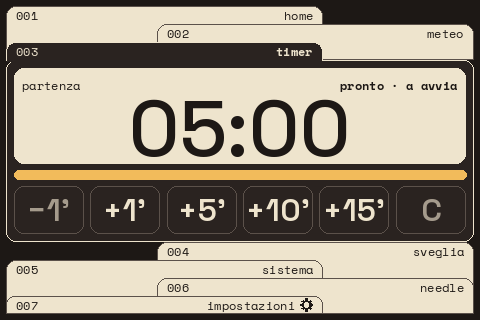
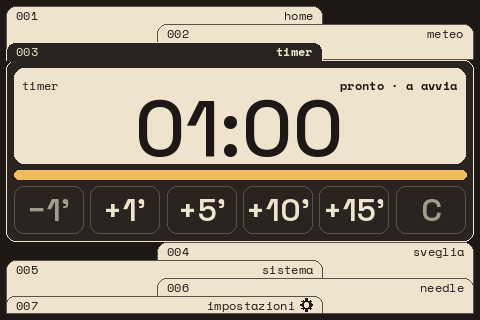
Rimuovi riferimenti a regate e nautica, sposta i dati demo in dash/demo.py
Claude-Session: https://claude.ai/code/session_01RAeUVfJHs33U2wMNxvkLa8

Changed region(s): [[0.25, 0.3125, 0.75, 0.5], [0.0312, 0.25, 0.1875, 0.2812]]

diff --git a/dash/widgets/weather.py b/dash/widgets/weather.py
@@ -12,7 +12,7 @@ import threading
 import urllib.error
 import urllib.parse
 import urllib.request
-from datetime import datetime, timedelta, timezone
+from datetime import datetime, timezone
 from pathlib import Path
 from collections.abc import Hashable
 from typing import Any
@@ -44,41 +44,6 @@ ROSA_16 = ("N", "NNE", "NE", "ENE", "E", "ESE", "SE", "SSE",
            "S", "SSW", "SW", "WSW", "W", "WNW", "NW", "NNW")
 VENTI_8 = ("TRAMONTANA", "GRECALE", "LEVANTE", "SCIROCCO",
            "OSTRO", "LIBECCIO", "PONENTE", "MAESTRALE")
-
-def _demo_data() -> dict[str, Any]:
-    """Dati finti coerenti per lavorare offline."""
-    start = datetime(2026, 9, 23)
-    times, temps, codes, rain, soil0, soil6 = [], [], [], [], [], []
-    wind: list[float] = []
-    gust: list[float] = []
-    for h in range(48):
-        t = start + timedelta(hours=h)
-        times.append(t.strftime("%Y-%m-%dT%H:00"))
-        temps.append(round(21 + 4 * math.sin((t.hour - 9) / 24 * 2 * math.pi), 1))
-        codes.append((0, 1, 2, 2, 3, 61, 2, 0)[(h // 3) % 8])
-        rain.append((5, 10, 16, 30, 55, 40, 20, 8)[(h // 3) % 8])
-        soil0.append(round(temps[-1] - 1, 1))
-        soil6.append(round(temps[-1] - 6, 1))
-        wind.append(round(9 + 6 * math.sin((t.hour - 6) / 24 * 2 * math.pi) + (h % 3), 1))
-        gust.append(round(wind[-1] * 1.4, 1))
-    return {
-        "current": {"time": "2026-09-23T14:30", "temperature_2m": 24.7,
-                    "apparent_temperature": 26.1, "relative_humidity_2m": 73,
-                    "weather_code": 2, "is_day": 1, "cloud_cover": 22,
-                    "pressure_msl": 1013.4, "wind_speed_10m": 14.2,
-                    "wind_direction_10m": 315, "wind_gusts_10m": 21.0},
-        "hourly": {"time": times, "temperature_2m": temps, "weather_code": codes,
-                   "precipitation_probability": rain,
-                   "soil_temperature_0cm": soil0, "soil_temperature_6cm": soil6,
-                   "wind_speed_10m": wind, "wind_gusts_10m": gust,
-                   "wind_direction_10m": [300] * 48},
-        "daily": {"temperature_2m_max": [25.1], "temperature_2m_min": [19.2],
-                  "sunrise": ["2026-09-23T06:52"], "sunset": ["2026-09-23T18:59"],
-                  "daylight_duration": [43620.0], "sunshine_duration": [36900.0]},
-    }
-
-
-DEMO_DATA: dict[str, Any] = _demo_data()
 
 
 def beaufort(kn: float) -> int:
@@ -152,7 +117,10 @@ class WeatherWidget(Widget):
         self.demo = bool(cfg.get("demo", False))
         self.cache_file = Path(cfg.get("cache_dir", "out")) / "weather_cache.json"
         self._lock = threading.Lock()
-        self._data: dict[str, Any] | None = DEMO_DATA if self.demo else self._load_cache()
+        self._data: dict[str, Any] | None = self._load_cache()
+        if self.demo:
+            from ..demo import weather_data  # solo con `weather.demo` o --demo
+            self._data = weather_data()
         self._version = 0  # cambia a ogni nuovo scaricamento: usato da state_key
         self.error: str | None = None
         self._stop = threading.Event()

diff --git a/dash/demo.py b/dash/demo.py
@@ -1,0 +1,55 @@
+"""Dati dimostrativi per anteprime, simulatore (`--demo`) e test.
+
+Non fa parte dell'esecuzione normale sul Pi: i widget lo importano solo quando serve
+(`weather.demo`, `--demo`, `load_demo()`).
+"""
+from __future__ import annotations
+
+import math
+from datetime import datetime, timedelta
+from typing import Any
+
+from .sysinfo import Stats
+
+GIB = 1024 ** 3
+# Dati finti per le anteprime: un Pi 3 a riposo (RAM 1 GB, SD 32 GB).
+DEMO_STATS = Stats(cpu=0.12, ram_used=int(0.21 * GIB), ram_total=GIB, disk_used=int(4.1 * GIB),
+                   disk_total=int(29.1 * GIB), temp_c=48.3, net_rx=42_000, net_tx=7_300,
+                   uptime_s=3 * 86400 + 5 * 3600 + 12 * 60, host="pi-dash", ip="192.168.1.20")
+DEMO_CPU = (0.08, 0.10, 0.07, 0.12, 0.31, 0.45, 0.22, 0.11, 0.09, 0.14, 0.38, 0.17,
+            0.10, 0.08, 0.12, 0.26, 0.19, 0.09, 0.07, 0.11, 0.35, 0.52, 0.28, 0.12)
+DEMO_NET = (1_200, 800, 15_000, 62_000, 48_000, 9_000, 2_100, 900, 1_500, 31_000, 74_000, 22_000,
+            3_400, 1_100, 800, 12_000, 55_000, 18_000, 2_600, 1_000, 900, 7_800, 49_000, 11_000)
+
+
+def weather_data() -> dict[str, Any]:
+    """Dati finti coerenti per lavorare offline."""
+    start = datetime(2026, 9, 23)
+    times, temps, codes, rain, soil0, soil6 = [], [], [], [], [], []
+    wind: list[float] = []
+    gust: list[float] = []
+    for h in range(48):
+        t = start + timedelta(hours=h)
+        times.append(t.strftime("%Y-%m-%dT%H:00"))
+        temps.append(round(21 + 4 * math.sin((t.hour - 9) / 24 * 2 * math.pi), 1))
+        codes.append((0, 1, 2, 2, 3, 61, 2, 0)[(h // 3) % 8])
+        rain.append((5, 10, 16, 30, 55, 40, 20, 8)[(h // 3) % 8])
+        soil0.append(round(temps[-1] - 1, 1))
+        soil6.append(round(temps[-1] - 6, 1))
+        wind.append(round(9 + 6 * math.sin((t.hour - 6) / 24 * 2 * math.pi) + (h % 3), 1))
+        gust.append(round(wind[-1] * 1.4, 1))
+    return {
+        "current": {"time": "2026-09-23T14:30", "temperature_2m": 24.7,
+                    "apparent_temperature": 26.1, "relative_humidity_2m": 73,
+                    "weather_code": 2, "is_day": 1, "cloud_cover": 22,
+                    "pressure_msl": 1013.4, "wind_speed_10m": 14.2,
+                    "wind_direction_10m": 315, "wind_gusts_10m": 21.0},
+        "hourly": {"time": times, "temperature_2m": temps, "weather_code": codes,
+                   "precipitation_probability": rain,
+                   "soil_temperature_0cm": soil0, "soil_temperature_6cm": soil6,
+                   "wind_speed_10m": wind, "wind_gusts_10m": gust,
+                   "wind_direction_10m": [300] * 48},
+        "daily": {"temperature_2m_max": [25.1], "temperature_2m_min": [19.2],
+                  "sunrise": ["2026-09-23T06:52"], "sunset": ["2026-09-23T18:59"],
+                  "daylight_duration": [43620.0], "sunshine_duration": [36900.0]},
+    }

diff --git a/tests/test_dash.py b/tests/test_dash.py
@@ -140,12 +140,12 @@ class TestTimer(unittest.TestCase):
     def test_buttons_add_subtract_and_clear(self) -> None:
         clk = FakeClock()
         now = datetime(2026, 9, 24, 7, 42)
-        t = TimerWidget({"presets_s": [900, 60, 300, 600], "labels": {"300": "partenza"}},
+        t = TimerWidget({"presets_s": [900, 60, 300, 600], "labels": {"300": "pasta"}},
                         clock=clk)
         self.assertEqual([h for h, _ in t.buttons()],
                          ["sub", "add:60", "add:300", "add:600", "add:900", "clear"])
         self.assertEqual(dict(t.buttons())["sub"], "−1'")
-        self.assertEqual((t.duration, t.label()), (300, "PARTENZA"))  # parte dalla partenza
+        self.assertEqual((t.duration, t.label()), (300, "PASTA"))  # parte dalla durata con nome
         t.on_hit("add:300", now)
         t.on_hit("add:300", now)
         self.assertEqual(t.shown_remaining(), 900)                     # si sommano
@@ -576,7 +576,7 @@ class TestPages(unittest.TestCase):
 
     def _app(self, w: int = 960, h: int = 540) -> App:
         cfg = make_cfg(display={"width": w, "height": h},
-                       timer={"presets_s": [300], "labels": {"300": "partenza"}},
+                       timer={"presets_s": [300], "labels": {"300": "pasta"}},
                        alarm={"alarms": [{"time": "06:30", "days": [0, 1, 2, 3, 4, 5, 6]}]})
         return App(cfg, MemDisplay(w, h), queue.Queue())
 

diff --git a/dash/widgets/system.py b/dash/widgets/system.py
@@ -11,17 +11,6 @@ from typing import Any
 from ..sysinfo import Sampler, Stats
 from .base import Widget
 
-GIB = 1024 ** 3
-# Dati finti per le anteprime: un Pi 3 a riposo (RAM 1 GB, SD 32 GB).
-DEMO_STATS = Stats(cpu=0.12, ram_used=int(0.21 * GIB), ram_total=GIB, disk_used=int(4.1 * GIB),
-                   disk_total=int(29.1 * GIB), temp_c=48.3, net_rx=42_000, net_tx=7_300,
-                   uptime_s=3 * 86400 + 5 * 3600 + 12 * 60, host="pi-dash", ip="192.168.1.20")
-DEMO_CPU = (0.08, 0.10, 0.07, 0.12, 0.31, 0.45, 0.22, 0.11, 0.09, 0.14, 0.38, 0.17,
-            0.10, 0.08, 0.12, 0.26, 0.19, 0.09, 0.07, 0.11, 0.35, 0.52, 0.28, 0.12)
-DEMO_NET = (1_200, 800, 15_000, 62_000, 48_000, 9_000, 2_100, 900, 1_500, 31_000, 74_000, 22_000,
-            3_400, 1_100, 800, 12_000, 55_000, 18_000, 2_600, 1_000, 900, 7_800, 49_000, 11_000)
-
-
 def rate_str(bps: float | None) -> str:
     """Velocità di rete leggibile: 0 B/s … 999 kB/s … 12 MB/s."""
     if bps is None:
@@ -61,6 +50,7 @@ class SystemWidget(Widget):
 
     def load_demo(self) -> None:
         """Dati finti fissi (anteprime): niente campionamento."""
+        from ..demo import DEMO_CPU, DEMO_NET, DEMO_STATS
         self.demo = True
         with self._lock:
             self._stats = DEMO_STATS

diff --git a/dash/widgets/timer.py b/dash/widgets/timer.py
@@ -39,9 +39,9 @@ class TimerWidget(Widget):
         self._clock = clock
         self.state = TimerState.IDLE
         self._deadline = 0.0
-        # Etichetta per durata, es. {"300": "PARTENZA"} (sequenza di partenza di regata).
+        # Etichetta per durata, es. {"300": "PASTA"}.
         self.labels = {int(k): str(v).upper() for k, v in (cfg.get("labels") or {}).items()}
-        # all'accensione: la prima durata con un nome (la partenza), altrimenti il primo preset
+        # all'accensione: la prima durata con un nome, altrimenti il primo preset
         self._set_s = next((p for p in given if p in self.labels), given[0])
         self._remaining = float(self._set_s)
         self._hit = ""

diff --git a/tests/test_frasi.py b/tests/test_frasi.py
@@ -50,7 +50,6 @@ class TestNumeriEDurate(unittest.TestCase):
             "timer un minuto e 30 secondi": 90, "timer 5 minuti e 30 secondi": 330,
             "timer venticinque minuti": 1500, "timer 5": 300, "timer di dieci": 600,
             "avvisami tra dieci minuti": 600, "ricordami tra 3 minuti": 180,
-            "partenza regata timer 5 minuti": 300,
         }
         for frase, secondi in casi.items():
             self.assertEqual(chiama(frase), [("start_timer", {"seconds": secondi})], frase)

diff --git a/docs/installazione.md b/docs/installazione.md
@@ -4,7 +4,7 @@ Versione 0.10.0 · 2026-10-03
 
 Guida passo passo per chi è nuovo del Raspberry Pi. Si lavora dal PC Windows: il Raspberry non
 ha bisogno di monitor né di tastiera ("headless"). Le parti in `grassetto monospazio` si scrivono
-esattamente così; `marinaio` e `dashboard` sono esempi di nome utente e nome del Raspberry.
+esattamente così; `mario` e `dashboard` sono esempi di nome utente e nome del Raspberry.
 
 ## 0. Prima di iniziare
 
@@ -25,8 +25,8 @@ esattamente così; `marinaio` e `dashboard` sono esempi di nome utente e nome de
 | Terminale / PowerShell | finestra dove si scrivono i comandi; Invio li esegue |
 | SSH | collegamento al terminale del Raspberry dal PC, attraverso la rete |
 | `sudo` | esegue il comando come amministratore; può chiedere la password |
-| `~` | la cartella personale sul Raspberry (`/home/marinaio`) |
-| Prompt | la riga che aspetta un comando: `marinaio@dashboard:~ $` = sei sul Raspberry |
+| `~` | la cartella personale sul Raspberry (`/home/mario`) |
+| Prompt | la riga che aspetta un comando: `mario@dashboard:~ $` = sei sul Raspberry |
 | `nano` | editor di testo nel terminale: frecce per muoversi, Ctrl+O e Invio salva, Ctrl+X esce |
 
 Regole utili:
@@ -48,7 +48,7 @@ Regole utili:
    |---|---|
    | Hostname | `dashboard` (solo lettere, cifre e trattino) |
    | Localizzazione | Roma: imposta da solo fuso orario Europe/Rome, tastiera e paese del Wi-Fi |
-   | Utente | nome (es. `marinaio`) e password: **annotali**, non esiste più l'utente `pi` |
+   | Utente | nome (es. `mario`) e password: **annotali**, non esiste più l'utente `pi` |
    | Wi-Fi | nome della rete (SSID, attenzione a maiuscole/minuscole) e password |
    | Accesso remoto | attiva **SSH** con autenticazione a password |
    | Raspberry Pi Connect | lascia spento |
@@ -67,11 +67,11 @@ dello schermo allineato al bordo della scheda. Controlla che nessun pin resti sc
 2. Sul PC: Start → scrivi `PowerShell` → apri **Windows PowerShell**.
 3. Collegati:
    ```
-   ssh marinaio@dashboard.local
+   ssh mario@dashboard.local
    ```
    - La prima volta chiede se fidarsi del dispositivo: scrivi `yes` e Invio.
    - Poi la password dell'utente (non si vede mentre scrivi).
-   - Il prompt diventa `marinaio@dashboard:~ $`: da qui in poi i comandi girano sul Raspberry.
+   - Il prompt diventa `mario@dashboard:~ $`: da qui in poi i comandi girano sul Raspberry.
 4. Aggiorna il sistema (5–15 minuti):
    ```
    sudo apt update && sudo apt full-upgrade -y
@@ -81,7 +81,7 @@ dello schermo allineato al bordo della scheda. Controlla che nessun pin resti sc
 5. Per uscire da SSH: `exit`.
 
 Se `dashboard.local` non viene trovato: cerca l'indirizzo IP del Raspberry nella pagina del router
-(dispositivi collegati, nome `dashboard`) e usa `ssh marinaio@192.168.1.23` (il tuo numero).
+(dispositivi collegati, nome `dashboard`) e usa `ssh mario@192.168.1.23` (il tuo numero).
 
 ### 3.1 Cambiare rete Wi-Fi o password
 Se il router cambia nome o password, o il Raspberry non si collega più, collegalo al router con il
@@ -110,7 +110,7 @@ Il progetto arriva come `pi-dash.zip`. Supponiamo che sia nella cartella Downloa
 1. Apri una **seconda** finestra PowerShell (non collegata al Raspberry) e scrivi:
    ```
    cd $HOME\Downloads
-   scp .\pi-dash.zip marinaio@dashboard.local:~/
+   scp .\pi-dash.zip mario@dashboard.local:~/
    ```
    Chiede la password del Raspberry, poi copia il file.
 2. Nella finestra collegata al Raspberry:
@@ -127,7 +127,7 @@ App → Funzionalità facoltative → Aggiungi → **Client OpenSSH**.
 ### 4.2 Metodo B: con finestre e trascinamento (WinSCP o FileZilla)
 1. Installa **WinSCP** (winscp.net) e crea una connessione: protocollo **SFTP**, host
    `dashboard.local`, porta 22, nome utente e password del Raspberry.
-2. Trascina `pi-dash.zip` nella cartella `/home/marinaio` a destra. Non nella radice `/`:
+2. Trascina `pi-dash.zip` nella cartella `/home/mario` a destra. Non nella radice `/`:
    lì scrivere è vietato e compare `Permission denied`.
 3. Estrai dal terminale SSH come al punto 2 del metodo A.
 
@@ -569,7 +569,7 @@ Se non c'è niente di nuovo scrive "già all'ultima versione" e non riavvia null
 
 Aggiornamento dal PC, senza aprire una sessione SSH:
 ```
-ssh marinaio@dashboard.local ~/pi-dash/scripts/aggiorna.sh
+ssh mario@dashboard.local ~/pi-dash/scripts/aggiorna.sh
 ```
 
 ### 7.1 Passare dallo zip (o dalla copia dal PC) a GitHub

diff --git a/README.md b/README.md
@@ -3,8 +3,7 @@
 > Versione 0.10.0 · 2026-10-03
 
 Cruscotto da tavolo per Raspberry Pi con schermo touch SPI da 3,5": ora, meteo con vento in nodi,
-timer di partenza regata, sveglia e stato del sistema, in un'interfaccia a schedario ispirata ai
-computer di bordo. Si comanda anche a voce dal telefono, con un modello locale che avvia timer e
+timer, sveglia e stato del sistema, in un'interfaccia a schedario. Si comanda anche a voce dal telefono, con un modello locale che avvia timer e
 sveglie e accende le luci Philips Hue.
 
 [![test](https://github.com/Hapoyo/PiDash/actions/workflows/test.yml/badge.svg?branch=main)](https://github.com/Hapoyo/PiDash/actions/workflows/test.yml)
@@ -33,9 +32,9 @@ sveglie e accende le luci Philips Hue.
   l'ingranaggio), dove si regolano anche luminosità e calibrazione del tocco e si spegne il Pi.
 - **Tocco preciso**: ogni bottone risponde da solo, un tocco appena fuori vale per il più vicino,
   il punto è la mediana dei campioni letti mentre il dito preme.
-- **Meteo per chi va in mare**: vento in nodi con direzione, raffiche e forza Beaufort, pressione,
+- **Meteo**: vento in nodi con direzione, raffiche e forza Beaufort, pressione,
   pioggia e previsione a 15 ore da [Open-Meteo](https://open-meteo.com), senza chiave API.
-- **Timer di partenza regata**: il tempo si compone sommando i bottoni (+1′, +5′, +10′, +15′,
+- **Timer**: il tempo si compone sommando i bottoni (+1′, +5′, +10′, +15′,
   −1′, C per azzerare); **sveglie settimanali**.
 - **Needle, comandi in italiano**: scheda opzionale con il modello locale
   [Needle](https://github.com/cactus-compute/needle) (function calling, 35 MB, senza rete) e un
@@ -64,7 +63,7 @@ sveglie e accende le luci Philips Hue.
 |---|---|---|---|
 | 001 | Home | sempre | ora e data, luogo e coordinate, alba/tramonto, avanzamento del giorno, anelli di settimana, mese e anno |
 | 002 | Meteo | sempre | temperatura, vento (nodi, direzione, raffiche, Beaufort), pioggia, umidità, pressione, previsione oraria, fase lunare |
-| 003 | Timer | a scelta | conto alla rovescia composto con i bottoni; 5′ = sequenza di partenza |
+| 003 | Timer | a scelta | conto alla rovescia composto con i bottoni |
 | 004 | Sveglia | a scelta | prossima sveglia, stato, sveglie per giorno della settimana |
 | 005 | Sistema | sempre | CPU, RAM, disco, storici di CPU e rete, host, IP, temperatura, uptime |
 | 006 | Needle | a scelta | modello locale [Needle](https://github.com/cactus-compute/needle) (function calling): esito dell'ultima frase, bot che mostra lo stato del modello, bottoni con le frasi da provare; esegue timer, sveglie, pagine e luci Philips Hue; un tocco sul bot mostra il QR della pagina "premi e parla" |
@@ -148,7 +147,7 @@ La configurazione è su due livelli:
 | `location.mode` | posizione: `auto` (GPS, poi Wi-Fi, poi IP), `ip`, `city` (per nome), `fixed` (coordinate) | `auto` |
 | `location.name`, `lat`, `lon` | luogo e coordinate di riserva | Gaeta, 41,214 N 13,571 E |
 | `location.wifi`, `gps_device` | posizione dalle reti Wi-Fi (BeaconDB); seriale del GPS | `true`; automatica |
-| `timer.presets_s`, `timer.labels` | bottoni che sommano il tempo (secondi) ed etichette | 60, 300, 600, 900 · 300 = "partenza" |
+| `timer.presets_s`, `timer.labels` | bottoni che sommano il tempo (secondi) ed etichette per durata | 60, 300, 600, 900 · nessuna |
 | `backlight.level`, `backlight.mode` | luminosità 10–100; `auto`, `hw` (LED), `sw` (immagine) | 100, `auto` |
 | `alarm.alarms` | sveglie: ora, giorni (0 = lunedì), attiva | 07:00, lunedì–venerdì |
 | `needle.url`, `needle.queries` | servizio Needle locale e frasi dei bottoni (1–6); `needle.reset`: ogni frase è indipendente; `needle.timeout_s`: attesa massima della risposta | `http://127.0.0.1:8090`, 4 frasi, `true`, 15 s |

diff --git a/CLAUDE.md b/CLAUDE.md
@@ -4,7 +4,7 @@ Versione 0.10.0 · 2026-10-03
 
 ## 1. Scopo
 Dashboard da tavolo per Raspberry Pi 3 Model B con schermo SPI 3,5" 480×320 (ILI9486 + touch
-XPT2046): orologio, meteo e vento in nodi, timer di partenza regata, sveglia, statistiche del
+XPT2046): orologio, meteo e vento in nodi, timer, sveglia, statistiche del
 sistema. Schedario componibile: le pagine si aggiungono e si tolgono dalle Impostazioni
 (scheda `new`, linguetta con l'ingranaggio), che regolano anche luminosità, touch e spegnimento.
 Unico stile: pannelli arrotondati a colori su fondo scuro, numeri in Space Grotesk,
@@ -18,6 +18,7 @@ config.local.json      impostazioni del singolo Pi, fuori da Git, fuse sopra con
 dash/main.py           riga di comando: configurazione, schermo, ingressi, avvio
 dash/app.py            App: pagine dello schedario, eventi, ciclo (`step`, `run`)
 dash/preview.py        anteprime del README: PNG per pagina e GIF animata
+dash/demo.py           dati dimostrativi (meteo, sistema), importati solo con `--demo`/anteprime/test
 dash/config.py         default + validazione (ConfigError)
 dash/motion.py         tempi delle animazioni: livelli, curve, avvio, scansione, decodifica
 dash/render/           tutto il disegno
@@ -148,7 +149,6 @@ Scelte prese e motivi (schedario, meteo, posizione, animazioni, configurazione, 
 - **Rosa dei venti**: 16 quarte (N…NNW) e 8 venti (Tramontana…Maestrale).
 - **Fase lunare**: 0 = luna nuova, 0,5 = piena; illuminazione in % del disco.
 - **SoC**: System on Chip del Raspberry (temperatura mostrata come "temp").
-- **Partenza**: sequenza di partenza di regata (conto alla rovescia di 5').
 - **Framebuffer**: `/dev/fb1`, memoria dello schermo scritta direttamente, senza desktop.
 - **Impostazioni**: pagina `new` (nome "+" nei config): schede, luminosità, touch, spegnimento.
 - **BeaconDB**: servizio libero di posizione da reti Wi-Fi (formato Mozilla Location Service).

diff --git a/docs/decisioni.md b/docs/decisioni.md
@@ -125,7 +125,7 @@ le regole operative stanno in [CLAUDE.md](../CLAUDE.md).
   comando `power.cmd` (predefinito `sudo -n /usr/bin/systemctl poweroff`, permesso da
   `/etc/sudoers.d/pi-dash` e da nient'altro). Fuori dal driver `fb` è solo simulato.
 - Meteo: direzione del vento come anello della home (`pages/weather._wind_ring` → `cv.ring`): arco
-  da nord in senso orario fino alla direzione **da cui** soffia il vento (uso nautico), sfera in
+  da nord in senso orario fino alla direzione **da cui** soffia il vento (convenzione meteorologica), sfera in
   testa, gradi al centro, tacca sul nord. Niente aghi né radar. `cv.panel(reserve=...)` libera lo
   spazio a destra del numero.
 - Rete: byte/s da `/proc/net/dev` (tutte le schede tranne `lo`), differenza fra due campioni;
@@ -145,7 +145,7 @@ le regole operative stanno in [CLAUDE.md](../CLAUDE.md).
 - Timer: il tempo si compone con i bottoni: `presets_s` ordinati diventano "+N" che si sommano
   (anche in corsa, spostando la scadenza), "−1'" toglie un minuto senza scendere sotto zero, "C"
   azzera. Tocco sul pannello del tempo = avvia/pausa; B somma il preset più corto. All'avvio il
-  primo preset con etichetta (`timer.labels`, 300 s → "PARTENZA"), altrimenti il primo. La barra
+  primo preset con etichetta (`timer.labels`, per esempio 300 s → "PASTA"), altrimenti il primo. La barra
   si misura sul tempo impostato.
 - Avvio: 5 s (la sigla "Pi-Dash" si scrive in circa 1,75 s); un tocco lo salta.
 - Sistema: campioni ogni `system.sample_s`, storici di CPU e rete su 48 colonne a larghezza fissa.
